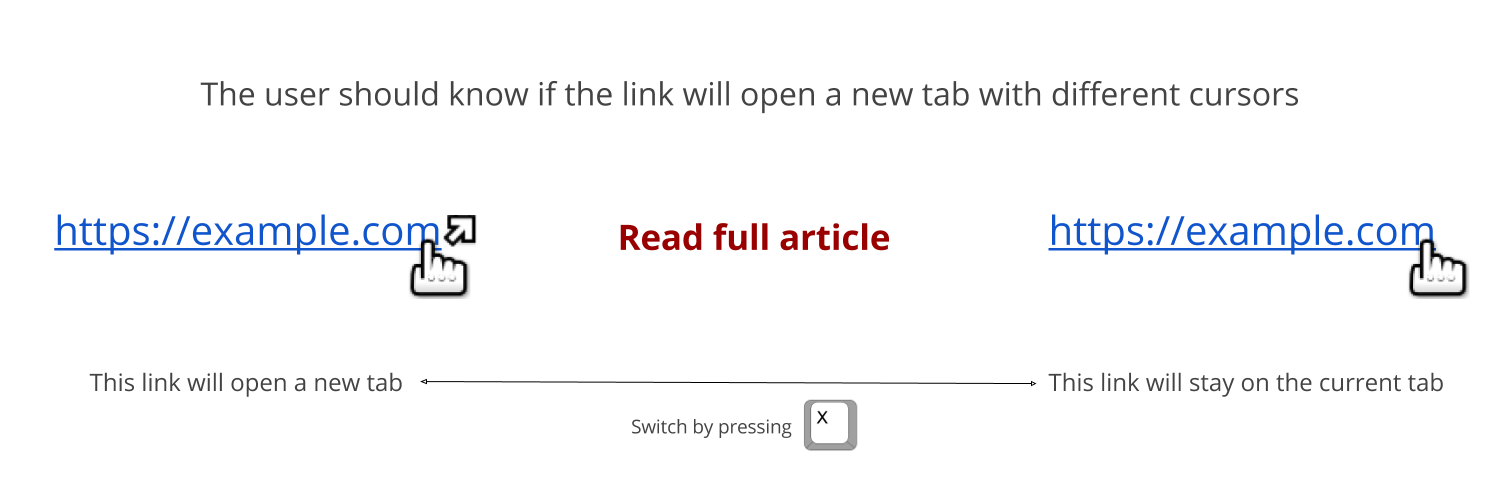
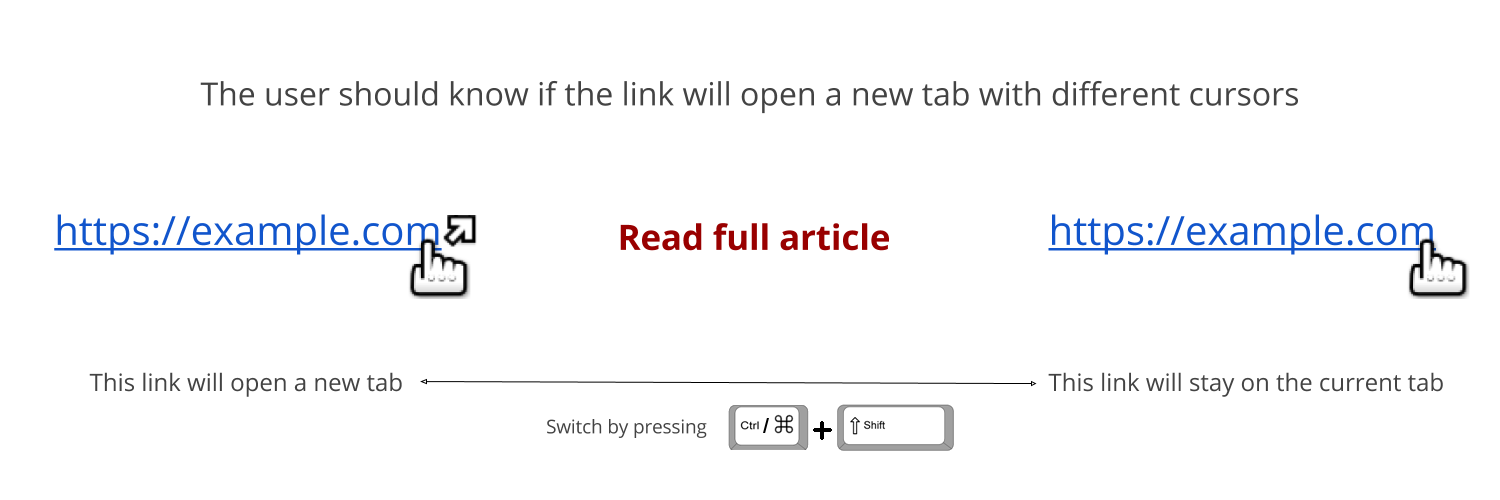
new version

Changed region(s): [[0.368, 0.78, 0.644, 0.9]]

diff --git a/src/toggler.js b/src/toggler.js
@@ -1,11 +1,26 @@
 (function(){
+  var findLink = function($node) {
+    return (!$node || ($node.tagName === 'A')) ? $node : findLink($node.parentNode);
+  };
+
   var toggleLinksTargetBlank = function(isToggled) {
     var dataAttr = 'data-initial-target-blank';
     var $links = document.getElementsByTagName('a');
+    var clickOpenInCurrentTab = function(clickEvent) {
+      var $link = findLink(clickEvent.target);
+      if ($link) {
+        window.location.href = $link.getAttribute('href');
+        clickEvent.preventDefault();
+      }
+    };
+
     for (var i=0; i<$links.length; i++) {
       var $link = $links[i];
       if (isToggled) {
         $link.setAttribute(dataAttr, $link.getAttribute(dataAttr) || ($link.getAttribute('target') === '_blank'));
+        if ($link.getAttribute(dataAttr) === 'true') {
+          $link.addEventListener('click', clickOpenInCurrentTab);
+        }
       }
       if (($link.getAttribute(dataAttr) === 'true') === isToggled) {
         $link.removeAttribute('target');
@@ -13,13 +28,16 @@
         $link.setAttribute('target', $link.getAttribute('target') || '_blank');
       }
       if (!isToggled) {
+        if ($link.getAttribute(dataAttr) === 'true') {
+          $link.removeEventListener('click', clickOpenInCurrentTab);
+        }
         $link.removeAttribute(dataAttr);
       }
     }
   };
 
   var needsToggle = function(e) {
-    return e.which === 88;
+    return (e.metaKey || e.ctrlKey) && e.shiftKey && e.code.match(/^(Shift|Control)/);
   };
 
   if (document.documentElement.classList.contains('link-toggler')) {
@@ -30,20 +48,15 @@
 
   document.addEventListener('keydown', function(downEvent){
     if (needsToggle(downEvent)) {
-      if (downEvent.repeat) {
-        // Necessary otherwise target="_blank" is not effective
-        downEvent.preventDefault();
-      } else {
-        toggleLinksTargetBlank(true);
-        var onceListener = function(upEvent) {
-          window.removeEventListener('blur', onceListener);
-          document.removeEventListener('keyup', onceListener);
-          toggleLinksTargetBlank(false);
-        };
-        // Deactivate either on keyup or on blur to go to new window
-        document.addEventListener('keyup', onceListener);
-        window.addEventListener('blur', onceListener);
-      }
+      toggleLinksTargetBlank(true);
+      var onceListener = function(upEvent) {
+        window.removeEventListener('blur', onceListener);
+        document.removeEventListener('keyup', onceListener);
+        toggleLinksTargetBlank(false);
+      };
+      // Deactivate either on keyup or on blur to go to new window
+      document.addEventListener('keyup', onceListener);
+      window.addEventListener('blur', onceListener);
     }
   });
 })();
